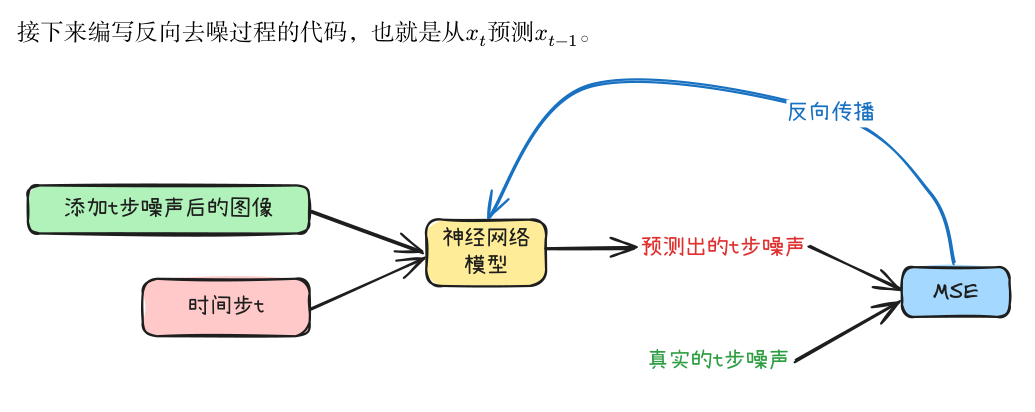
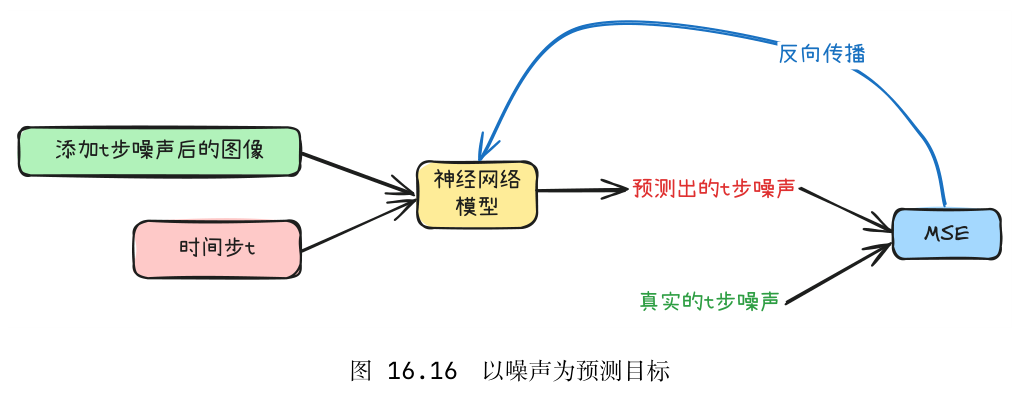
图16.16/16.17修正:图16.16去掉误含的上方代码(1035x412->1019x395)、图16.17去掉误含的代码(1033x740->1000x379,只留采样算法伪代码与图注);删除与图16.17重复的采样算法伪代码文字块;确认16-2中随机选取一个时间步/给图片添加噪声已删除

diff --git a/llm-tutorial-16-3/index.html b/llm-tutorial-16-3/index.html
@@ -186,53 +186,10 @@ $$</p>
 </code></pre>
 </p>
 <p>接下来编写反向去噪过程的代码，也就是从 $x_t$ 预测 $x_{t-1}$。</p>
-<p>模型
-MSE</p>
+
 <figure class="tutorial-figure"><img src="/post-images/tutorial-figs/fig-16-16.png" alt="图 16.16 以噪声为预测目标" loading="lazy"><figcaption>图 16.16 以噪声为预测目标</figcaption></figure>
 <p>给定了时间步和添加噪声的图像，模型可以预测出这幅图片中的噪声有多少，那么我们从 $x_t$ 中将预测出的噪声减掉，就可以去噪了！</p>
-<p><pre translate="no"><code class="language-python">def denoise(self, model, x, t):
-    # x是图片，模型会认为x是添加了t步噪声的图片
-    # t是时间步
-    T = self.num_timesteps
-    assert (t &gt;= 1).all() and (t &lt;= T).all()
 
-    t_idx = t - 1 # alphas[0] is for t=1
-    alpha = self.alphas[t_idx] # α_t
-    alpha_bar = self.alpha_bars[t_idx] # ᾱ_t
-    alpha_bar_prev = self.alpha_bars[t_idx-1] # ᾱ_{t-1}
-
-    N = alpha.size(0)
-    alpha = alpha.view(N, 1, 1, 1)
-    alpha_bar = alpha_bar.view(N, 1, 1, 1)
-    alpha_bar_prev = alpha_bar_prev.view(N, 1, 1, 1)
-
-    model.eval()
-    with torch.no_grad():
-        eps = model(x, t) # 根据时间步和图像x_t预测噪声
-    model.train()
-    # 公式中的z
-    noise = torch.randn_like(x, device=self.device)
-    # 如果时间步为1的话，我们就不再添加σz噪声
-    noise[t == 1] = 0 # no noise at t=1
-    # 均值 μ_θ(x_t, t) = 1/√(α_t) (x_t - (1-α_t)/√(1-ᾱ_t) ε_θ(x_t, t))
-    mu = (x - ((1-alpha) / torch.sqrt(1-alpha_bar)) * eps) \
-        / torch.sqrt(alpha)
-    # 标准差 σ_t = √((1-α_t)(1-ᾱ_{t-1})/(1-ᾱ_t))
-    std = torch.sqrt((1-alpha) * (1-alpha_bar_prev) \
-        / (1-alpha_bar))
-    # 返回 x_{t-1}
-    return mu + noise * std
-</code></pre>
-</p>
-<p><pre><code class="language-text">1 x_T ~ N(0, I)          ▷ 从高斯分布中采样一张纯噪声图片
-2 for t = T, ..., 1 do
-3   z ~ N(0, I) if t &gt; 1, else z = 0
-4   x_{t-1} = 1/√(α_t) (x_t - (1-α_t)/√(1-ᾱ_t) ε_θ(x_t, t)) + σ_t z
-                  ▷ 在DDPM 论文中 σ_t = √((1-α_t)(1-ᾱ_{t-1})/(1-ᾱ_t))
-5 end for
-6 return x_0
-</code></pre>
-</p>
 <figure class="tutorial-figure"><img src="/post-images/tutorial-figs/fig-16-17.png" alt="图 16.17 采样算法（去噪算法，反向扩散算法）" loading="lazy"><figcaption>图 16.17 采样算法（去噪算法，反向扩散算法）</figcaption></figure>
 <h3 id="sec-2">16.3.2 U-Net 神经网络</h3>
 <p>U-Net 最初是为医学图像的语义分割而开发的模型。语义分割是为图像中的每个像素分配特定的类别标签的任务，如图所示。</p>

diff --git a/llm-tutorial-16-2/index.html b/llm-tutorial-16-2/index.html
@@ -297,15 +297,12 @@ $$</p>
 
 <figure class="tutorial-figure"><img src="/post-images/tutorial-figs/fig-16-12.png" alt="图 16.12 U-net 训练算法" loading="lazy"><figcaption>图 16.12 U-net 训练算法</figcaption></figure>
 <p>官方的训练算法如上，下图是一个训练步骤的示意图：</p>
-<ol>
-<li>随机选取一个时间步，然后对时间步进行编码</li>
-<li>给图片添加噪声</li>
-</ol>
 <figure class="tutorial-figure"><img src="/post-images/tutorial-figs/fig-16-13.png" alt="图 16.13 扩散模型训练步骤" loading="lazy"><figcaption>图 16.13 扩散模型训练步骤</figcaption></figure>
 <h4 id="sec-7">16.2.4.3 反向扩散</h4>
 
 <figure class="tutorial-figure"><img src="/post-images/tutorial-figs/fig-16-14.png" alt="图 16.14 采样算法（去噪算法，反向扩散算法）" loading="lazy"><figcaption>图 16.14 采样算法（去噪算法，反向扩散算法）</figcaption></figure>
-<figure class="tutorial-figure"><img src="/post-images/tutorial-figs/fig-16-15.png" alt="图 16.15 扩散模型的采样过程" loading="lazy"><figcaption>图 16.15 扩散模型的采样过程</figcaption></figure>
+            <p>官方的训练算法如上，下图是一个训练步骤的示意图：</p>
+            <figure class="tutorial-figure"><img src="/post-images/tutorial-figs/fig-16-15.png" alt="图 16.15 扩散模型的采样过程" loading="lazy"><figcaption>图 16.15 扩散模型的采样过程</figcaption></figure>
 <p>请注意，在最后一步，我们只是输出学习到的平均值 $\mu_{\theta}(x_1, 1)$，而不向其中添加噪声。</p>
 
           <hr>
